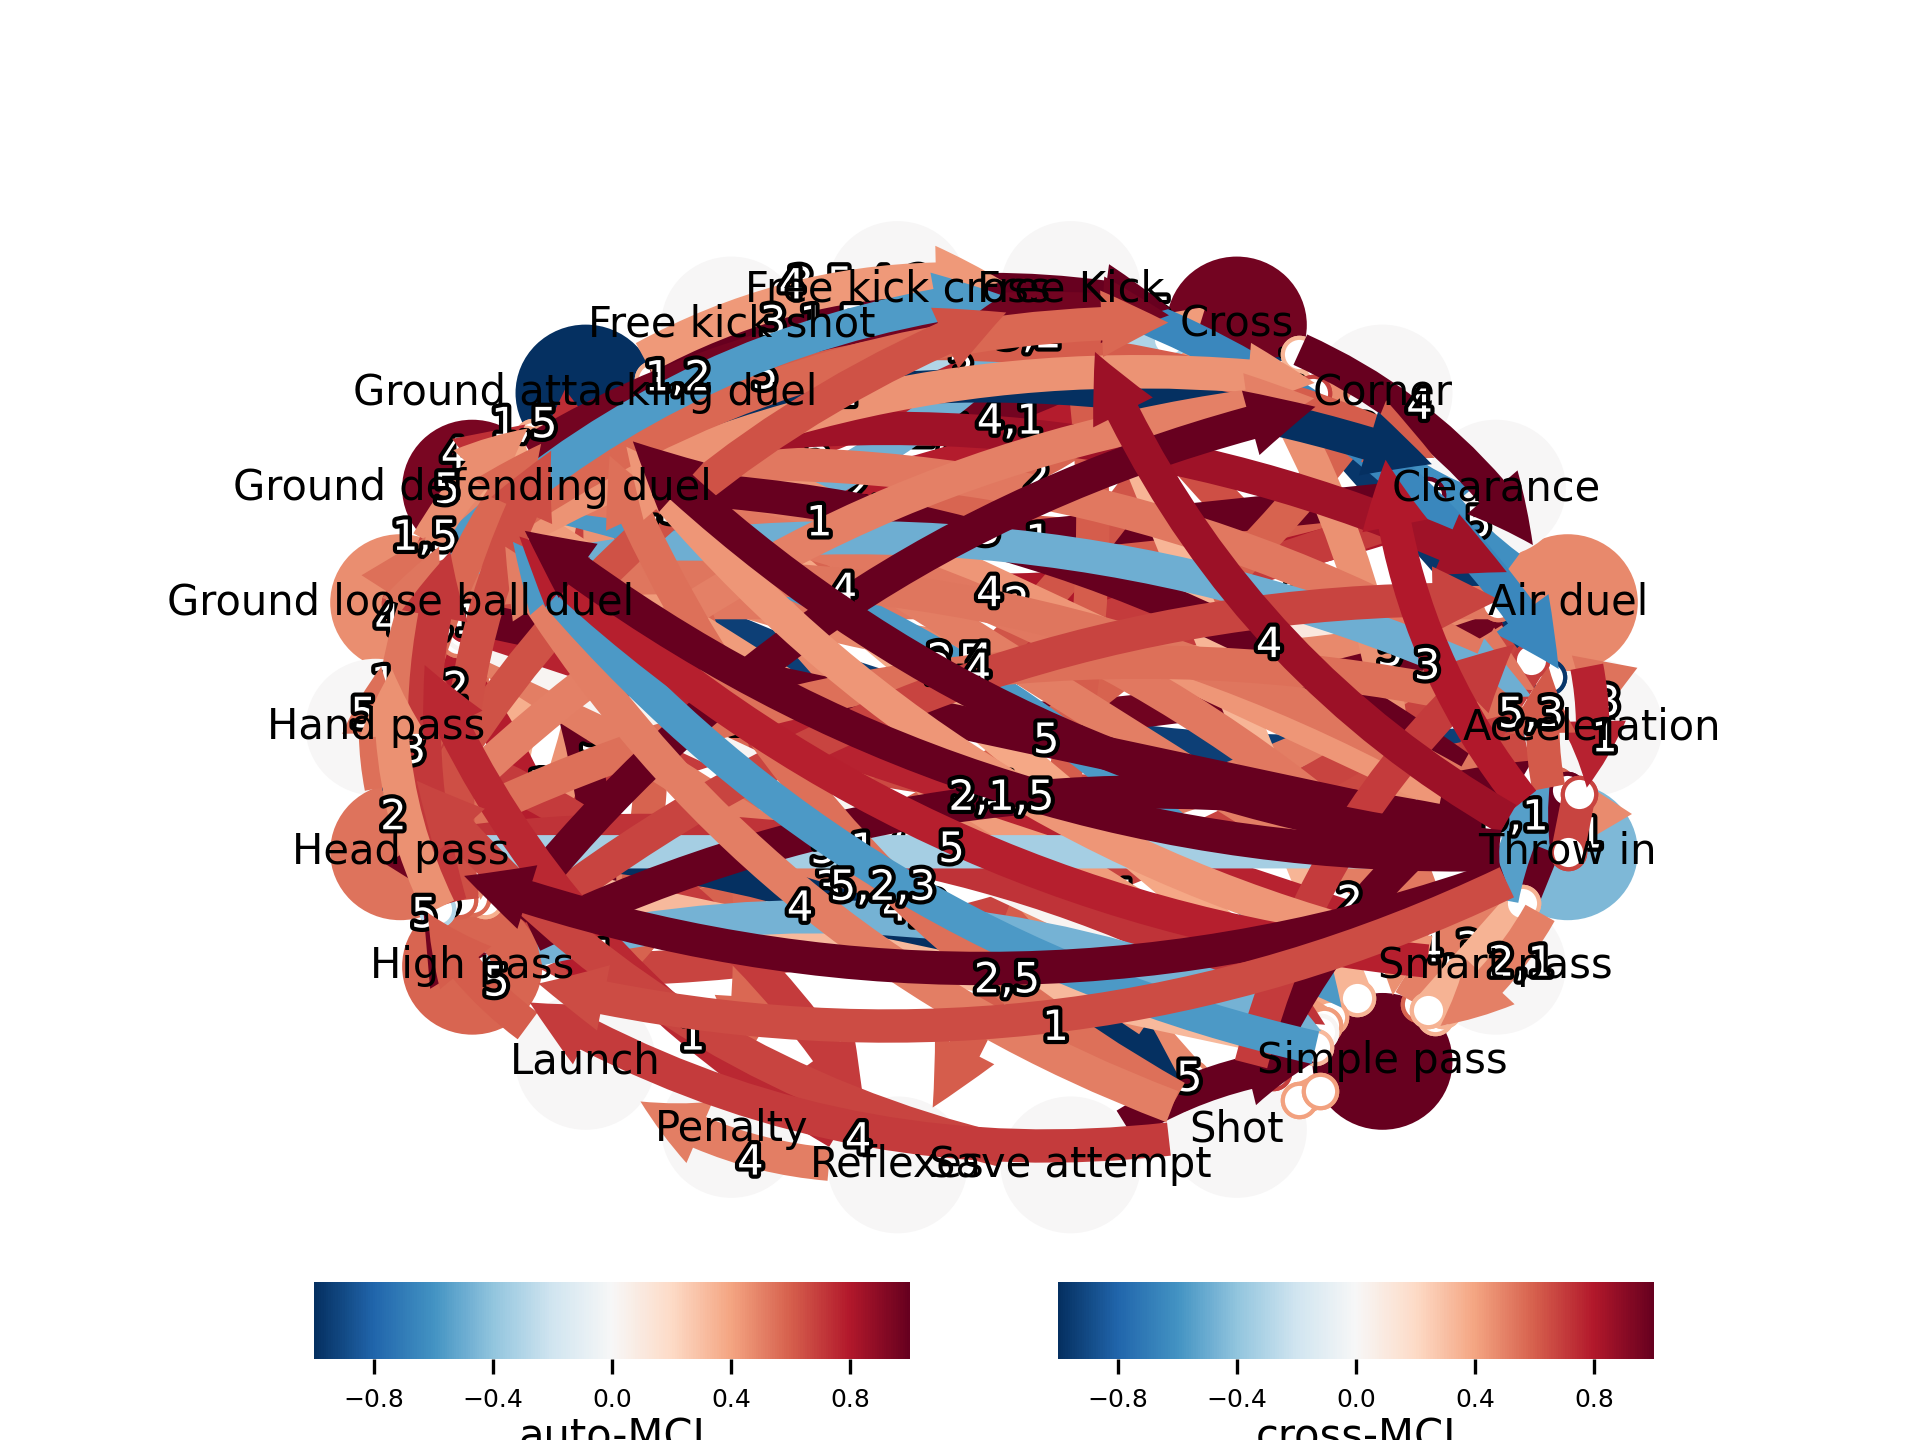
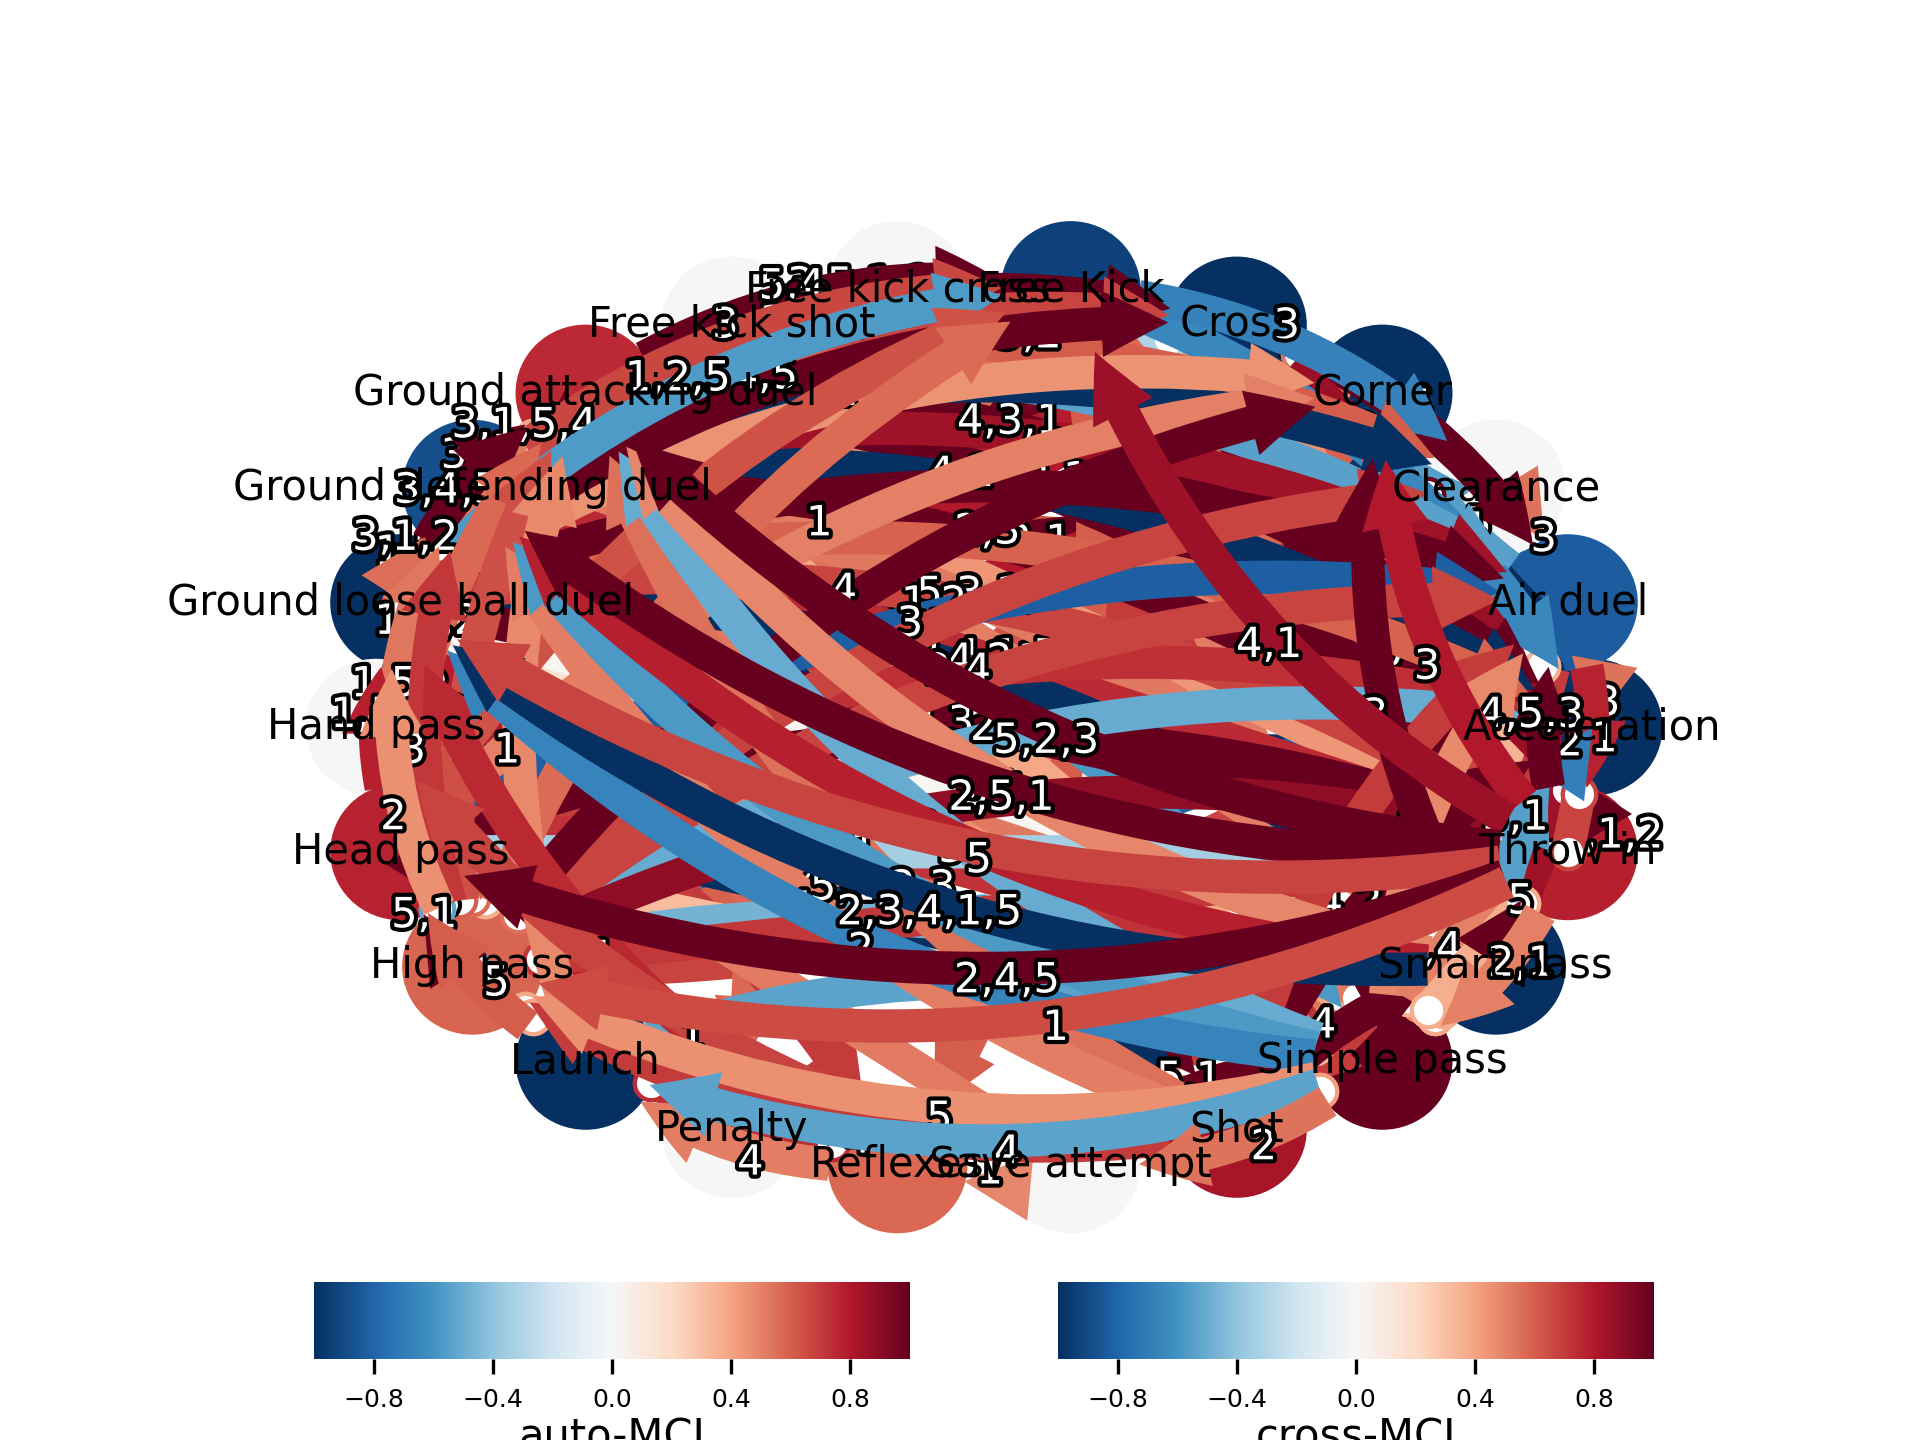
multiple games

Changed region(s): [[0.1562, 0.1562, 0.875, 0.875]]

diff --git a/Football/mlp.py b/Football/mlp.py
@@ -7,71 +7,82 @@ from common import *
 from process_data import *
 from sklearn.model_selection import train_test_split
 
-LAYERS = [
-    [128, 'relu'],
-    [64, 'sigmoid']
-]
-EPOCHS = 100
-BATCH_SIZE = 32
 
-df = pd.read_csv(f'matches/{match_folder}/match_data_gat.csv')
-action_df = pd.read_csv('fkeys/action.csv')
-action_map = {action_df['action'][i]: action_df['id'][i]
-              for i in range(len(action_df))}
+def runMLP(layers, epochs, batch_size, weight_adjustment=True):
+    # Go through all subfolders under matches and if they contain match_data_gat.csv add it to df, otherwise skip
+    match_folders = [f for f in os.listdir(
+        'matches') if os.path.isdir(os.path.join('matches', f))]
+    df = pd.DataFrame()
+    for match_folder in match_folders:
+        if os.path.exists(f'matches/{match_folder}/match_data_gat.csv'):
+            print(f'Processing {match_folder}')
+            temp_df = pd.read_csv(f'matches/{match_folder}/match_data_gat.csv')
+            df = pd.concat([df, temp_df], ignore_index=True)
 
-# Load PCMCI link file
-link_file = pd.read_csv(f"matches/{match_folder}/aggregated_links.csv")
+    action_df = pd.read_csv('fkeys/action.csv')
+    action_map = {action_df['action'][i]: action_df['id'][i]
+                  for i in range(len(action_df))}
 
-weights_dict = {}
-for _, row in link_file.iterrows():
-    i, j, lag, link_value = row["Variable i"], row["Variable j"], row["Time lag of i"], row["Link value"]
-    weights_dict[(i, j, lag)] = link_value
+    # Extract necessary columns
+    X = df.iloc[:, :-1]  # Features
+    y = df.iloc[:, -1]  # Target action
 
-# Extract necessary columns
-X = df.iloc[:, :-1]  # Features
-y = df.iloc[:, -1]  # Target action
+    x_train, x_test, y_train, y_test = train_test_split(
+        X, y, test_size=0.2)
 
-x_train, x_test, y_train, y_test = train_test_split(
-    X, y, test_size=0.2)
+    model = tf.keras.Sequential()
+    model.add(tf.keras.layers.Input(
+        shape=(X.shape[1],)))
+    for units, activation in layers:
+        model.add(tf.keras.layers.Dense(units, activation=activation))
+    model.add(tf.keras.layers.Dense(len(action_map)))
 
-model = tf.keras.Sequential()
-model.add(tf.keras.layers.Input(
-    shape=(X.shape[1],)))
-for units, activation in LAYERS:
-    model.add(tf.keras.layers.Dense(units, activation=activation))
-model.add(tf.keras.layers.Dense(len(action_map)))
+    if weight_adjustment:
+        model.build(input_shape=(None, X.shape[1]))
+
+        # Initialise weights for the first layer (prev_action → action mapping)
+        # Get default weights
+        first_layer_weights = model.layers[0].get_weights()
+        weight_matrix, bias = first_layer_weights
+
+        # Load PCMCI link file
+        link_file = pd.read_csv(f"aggregated_links.csv")
+
+        weights_dict = {}
+        for _, row in link_file.iterrows():
+            i, j, lag, link_value = row["Variable i"], row["Variable j"], row["Time lag of i"], row["Link value"]
+            weights_dict[(i, j, lag)] = link_value
+
+        # Apply custom weights based on the links file
+        for (i, j, lag), value in weights_dict.items():
+            mask = (df["prev_action"] == i) & (
+                df["action"] == j) & (df["time_lag"] == lag)
+            indices = np.where(mask)[0]
+
+            if indices.size > 0:
+                # Set weight for matching entries
+                weight_matrix[indices, j] = value
+
+        # Set updated weights
+        model.layers[0].set_weights([weight_matrix, bias])
+
+    model.compile(optimizer='adam', loss=tf.keras.losses.SparseCategoricalCrossentropy(
+        from_logits=True), metrics=['accuracy'])
+    model.fit(x_train, y_train, epochs=epochs, batch_size=batch_size)
+    y_pred = model.predict(x_test)
+    p = np.argmax(y_pred, axis=1)
+
+    printMetrics(y_test, p)
+    return model
 
 
-model.build(input_shape=(None, X.shape[1]))
-
-# Initialise weights for the first layer (prev_action → action mapping)
-first_layer_weights = model.layers[0].get_weights()  # Get default weights
-weight_matrix, bias = first_layer_weights
-
-# Apply custom weights based on the links file
-for (i, j, lag), value in weights_dict.items():
-    mask = (df["prev_action"] == i) & (
-        df["action"] == j) & (df["time_lag"] == lag)
-    indices = np.where(mask)[0]
-
-    if indices.size > 0:
-        weight_matrix[indices, j] = value  # Set weight for matching entries
-
-# Set updated weights
-model.layers[0].set_weights([weight_matrix, bias])
-
-model.compile(optimizer='adam', loss=tf.keras.losses.SparseCategoricalCrossentropy(from_logits=True), metrics=['accuracy'])
-model.fit(X, y, epochs=EPOCHS, batch_size=BATCH_SIZE)
-y_pred = model.predict(x_test)
-p = np.argmax(y_pred, axis=1)
-
-# Metrics
-accuracy = accuracy_score(y_test, p)
-precision = precision_score(y_test, p, average='weighted')
-recall = recall_score(y_test, p, average='weighted')
-f1 = f1_score(y_test, p, average='weighted')
-print(
-    f'Accuracy: {accuracy:.4f}, Precision: {precision:.4f}, Recall: {recall:.4f}, F1-score: {f1:.4f}')
+def printMetrics(y_true, y_pred):
+    accuracy = accuracy_score(y_true, y_pred)
+    precision = precision_score(y_true, y_pred, average='weighted')
+    recall = recall_score(y_true, y_pred, average='weighted')
+    f1 = f1_score(y_true, y_pred, average='weighted')
+    print(
+        f'Accuracy: {accuracy:.4f}, Precision: {precision:.4f}, Recall: {recall:.4f}, F1-score: {f1:.4f}')
 
 
 # [128, relu], [64, sigmoid]
@@ -81,3 +92,12 @@ print(
 # [256, relu], [128, sigmoid]
 # Accuracy: 0.8250, Precision: 0.7956, Recall: 0.8250, F1-score: 0.7942 (with weight adjustment)
 # No weight adjustment yields similar results
+
+if __name__ == '__main__':
+    LAYERS = [
+        [128, 'relu'],
+        [64, 'sigmoid']
+    ]
+    EPOCHS = 200
+    BATCH_SIZE = 32
+    runMLP(LAYERS, EPOCHS, BATCH_SIZE, weight_adjustment=True)

diff --git a/Football/process_data.py b/Football/process_data.py
@@ -4,6 +4,7 @@ import numpy as np
 from common import *
 
 def matchData():
+    # Splits the match data into individual matches and saves them in separate folders
     df = pd.read_csv('match_event.csv')
     # Only consider events that are successful
     df = searchDF(df, [('is_success', 't')])
@@ -72,7 +73,7 @@ def matchData():
         match_df.to_csv(f'matches/match_{match_id}/match_data.csv', index=False)
 
 
-def causalData():
+def causalData(match_folder):
     df = pd.read_csv(f'matches/{match_folder}/match_data.csv')
     df = df.drop(columns=['id', 'event',
                           'action_result', 'x_begin', 'y_begin', 'x_end', 'y_end'])
@@ -102,7 +103,7 @@ def causalData():
     return new_df
 
 
-def gatData():
+def gatData(match_folder):
     # time, x_begin, y_begin, x_end, y_end, prev_action, time_lag, action(prediction)
     df = pd.read_csv(f'matches/{match_folder}/match_data.csv')
     df = df.drop(columns=['id', 'event', 'action_result'])
@@ -125,6 +126,8 @@ def gatData():
     df.to_csv(f'matches/{match_folder}/match_data_gat.csv', index=False)
     return df
 
-# matchData()
-# causalData()
-gatData()
+if __name__ == '__main__':
+    match_folder = 'match_1'
+    # matchData()
+    # causalData(mtach_folder)
+    gatData(match_folder)

diff --git a/Football/pcmci.py b/Football/pcmci.py
@@ -162,7 +162,8 @@ def aggregateLinks(match_folder=None):
     return graph, val_matrix
 
 if __name__ == '__main__':
-    # runPCMCI(match_folder)
+    match_folder = 'match_1'
+    runPCMCI(match_folder)
     aggregateLinks()
 
 # Prediction
